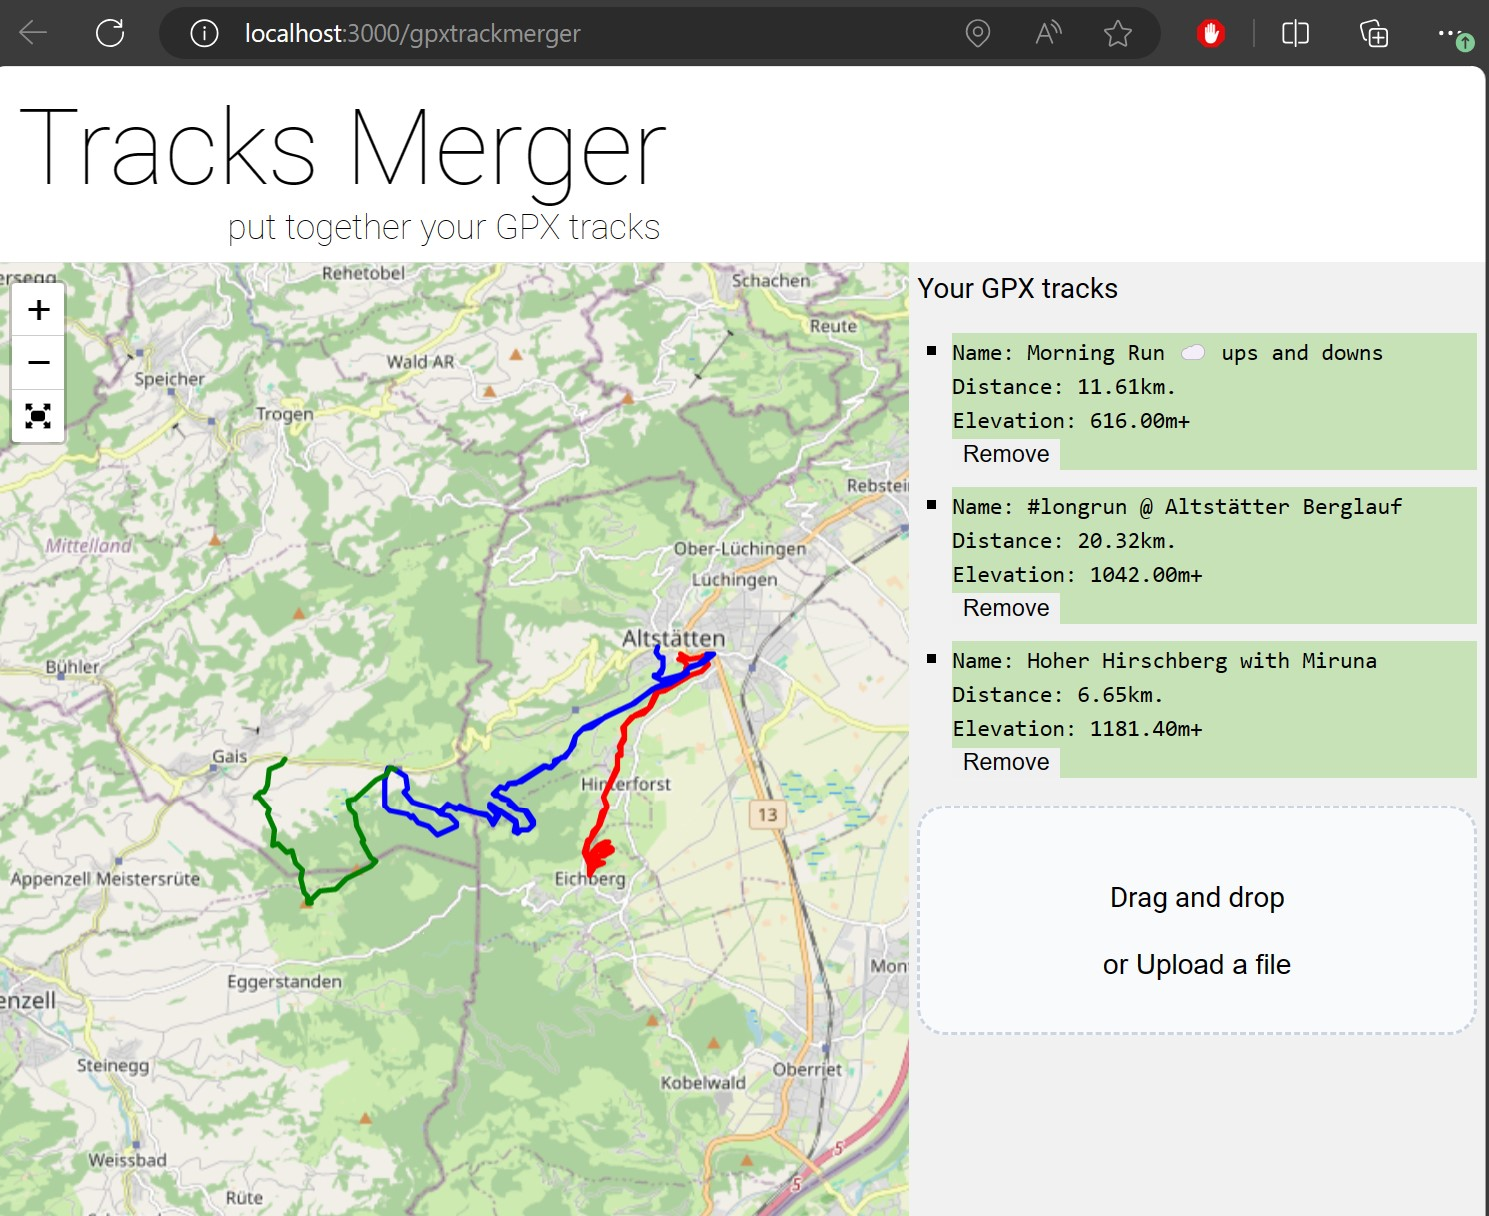
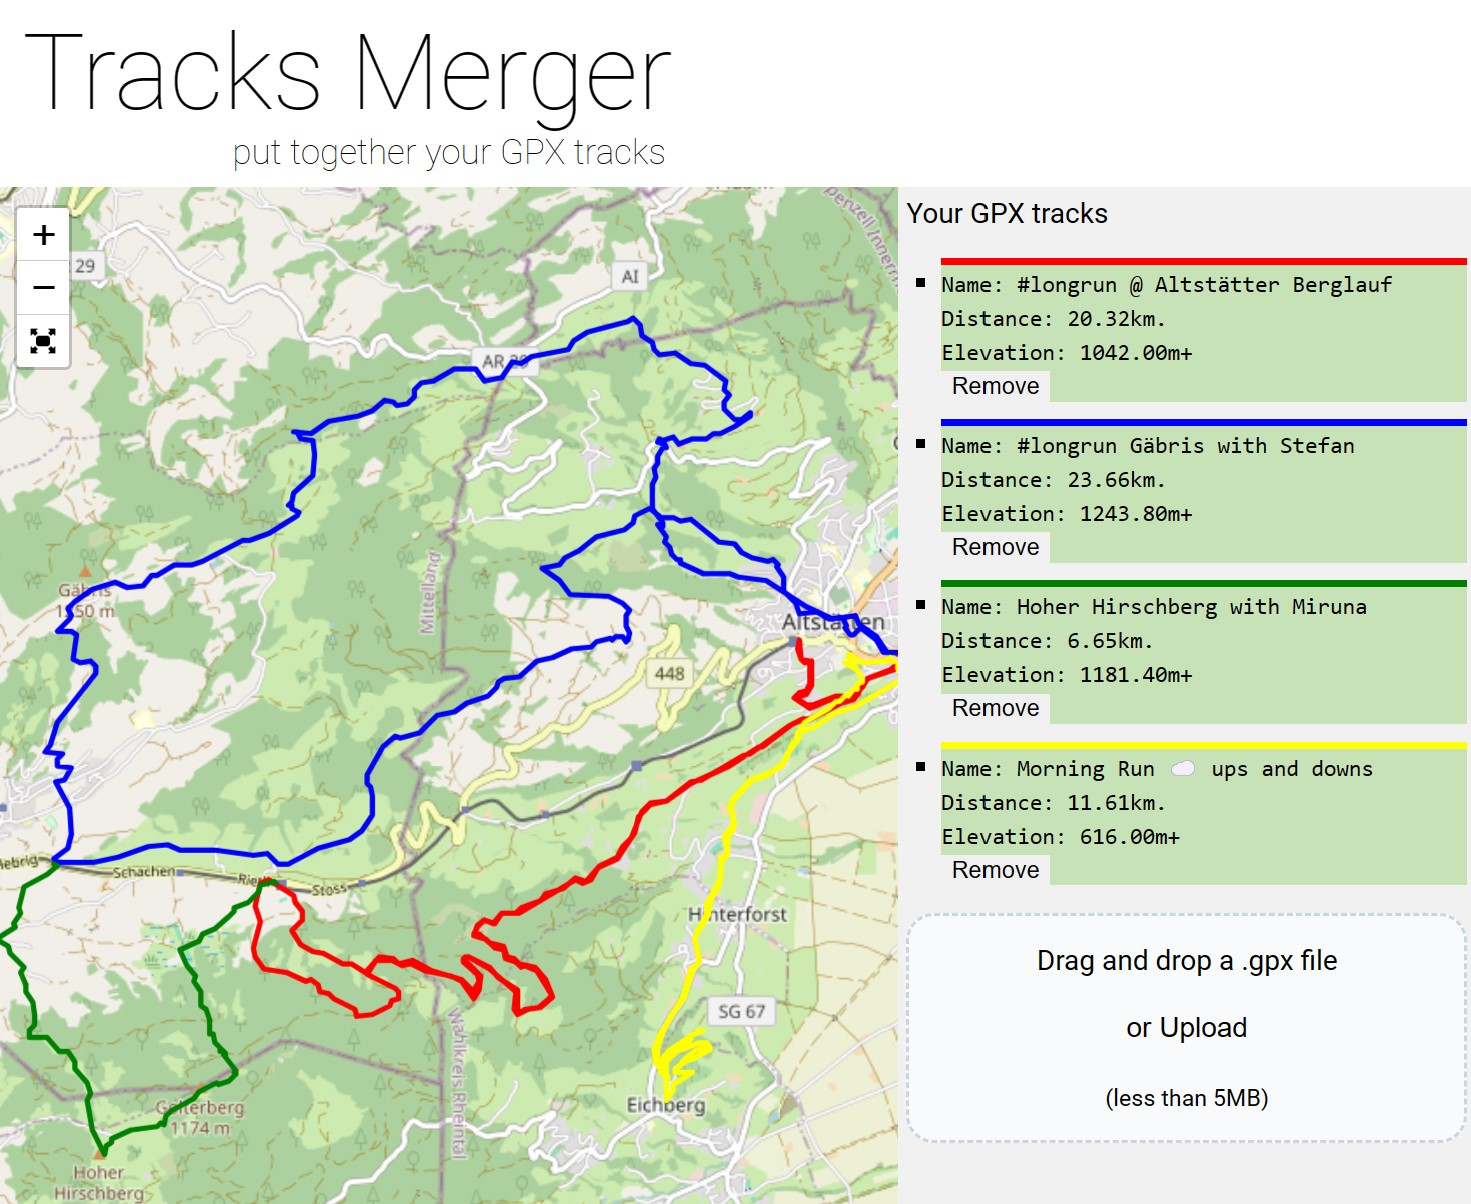
Display the track list items with the same color as on the map.

diff --git a/src/components/Map.js b/src/components/Map.js
@@ -32,12 +32,14 @@ class Map extends Component {
         
         var points = [];
         var polylineList;
-        var colors = ['Red', 'Blue', 'Green', 'Yellow', 'SlateBlue', 'Purple', 'Lime', 'Fuchsia', 'Maroon', 'Aqua'];
         var latMin = this.state.lat, latMax = this.state.lat, longMin = this.state.long, longMax = this.state.long;
 
         polylineList = this.props.tracksArray.map((elem, index) =>
         {
-            points = elem.tracks[0].points.map(p => [p.lat, p.lon]);
+            var trackColor = elem.objColor;
+            var trackElem = elem.objGpx.tracks[0];
+
+            points = trackElem.points.map(p => [p.lat, p.lon]);
 
             // TODO to move in a method and use properly
             latMin = Math.min(...points.map(p => p[0]));
@@ -46,7 +48,7 @@ class Map extends Component {
             longMax = Math.max(...points.map(p => p[1]));
 
             return (
-                <Polyline pathOptions={{ fillColor: colors[index], color: colors[index] }} positions={points} key={index}/>
+                <Polyline pathOptions={{ fillColor: trackColor, color: trackColor }} positions={points} key={index}/>
             )
         });
 

diff --git a/src/App.js b/src/App.js
@@ -8,7 +8,7 @@ class App extends Component {
 
     constructor(props){
         super(props);
-        this.state = {trackList : []};
+        this.state = {trackList : [], currentTrackIndex : 0};
     }
 
     render (){
@@ -39,9 +39,16 @@ class App extends Component {
         const parsedTrack = new gpxParser();
         parsedTrack.parse(file);
 
-        this.state.trackList.push(parsedTrack);
+        const colors = ['Red', 'Blue', 'Green', 'Yellow', 'SlateBlue', 'Purple', 'Lime', 'Fuchsia', 'Maroon', 'Aqua'];
+
+        const objTrack = {
+            objGpx : parsedTrack,
+            objColor : colors[this.state.currentTrackIndex]
+        }
+
+        this.state.trackList.push(objTrack);
         
-        this.setState({trackList: this.state.trackList});
+        this.setState({trackList: this.state.trackList, currentTrackIndex: this.state.currentTrackIndex + 1});
     }
 
     onTrackRemove(elem){

diff --git a/src/components/TrackList.js b/src/components/TrackList.js
@@ -32,11 +32,12 @@ class TrackList extends Component{
 class TrackListItem extends Component{
     render(){
 
-        var trackElem = this.props.elem.tracks[0];
+        var trackColor = this.props.elem.objColor;
+        var trackElem = this.props.elem.objGpx.tracks[0];
 
         return(
             <li>
-                <div className="list-tracks-elem">
+                <div className="list-tracks-elem" style={{borderColor: trackColor}}>
                     <code><span>Name: {trackElem.name}</span><br/>
                     <span>Distance: {parseFloat(trackElem.distance.total / 1000).toFixed(2)}km.</span><br/>
                     <span>Elevation: {parseFloat(trackElem.elevation.max).toFixed(2)}m+</span><br/>

diff --git a/src/components/TrackList.css b/src/components/TrackList.css
@@ -9,6 +9,7 @@
 
 .list-tracks-elem {
     background-color: #c7e2b7;
+    border-top: 4px solid;
 }
 
 .btnRemove{

diff --git a/todo.md b/todo.md
@@ -21,7 +21,7 @@
     * New component
     + bar with options start / end 
     + save button for the new gpx
-6. Use the same color as the track has on the map
+6. [DONE] Use the same color as the track has on the map
 7. Hide/Unhide the panel with List and Drag&Drop
 
 ## Drag & Drop
